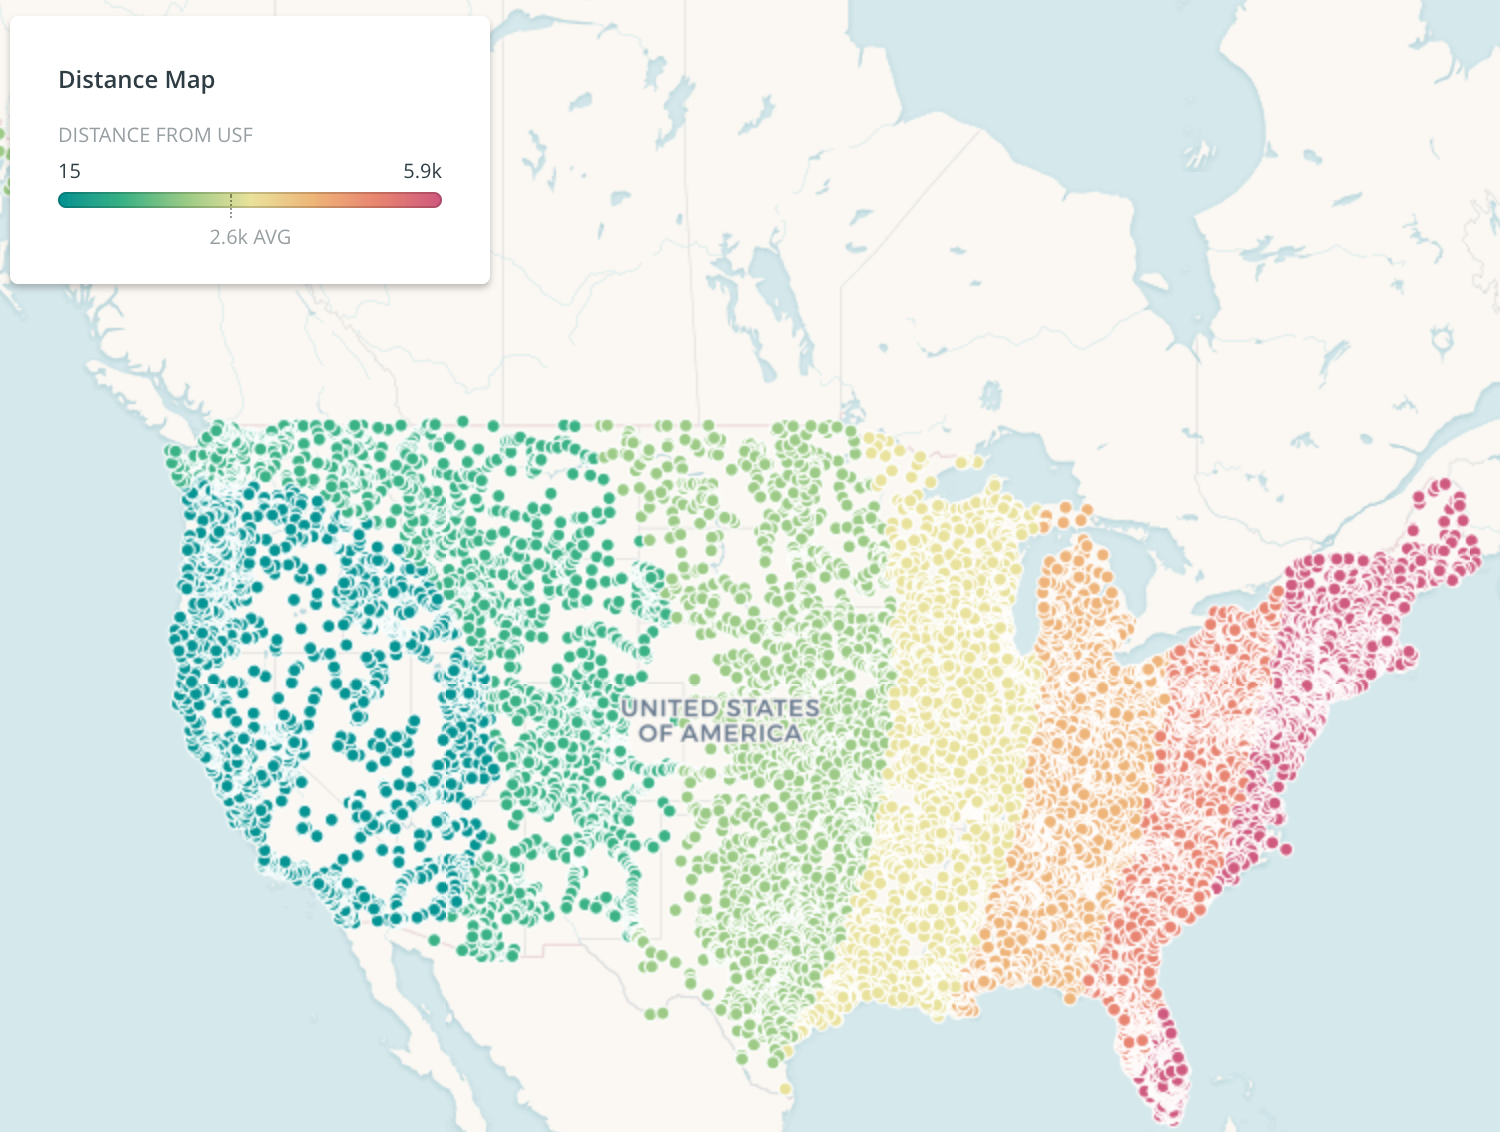
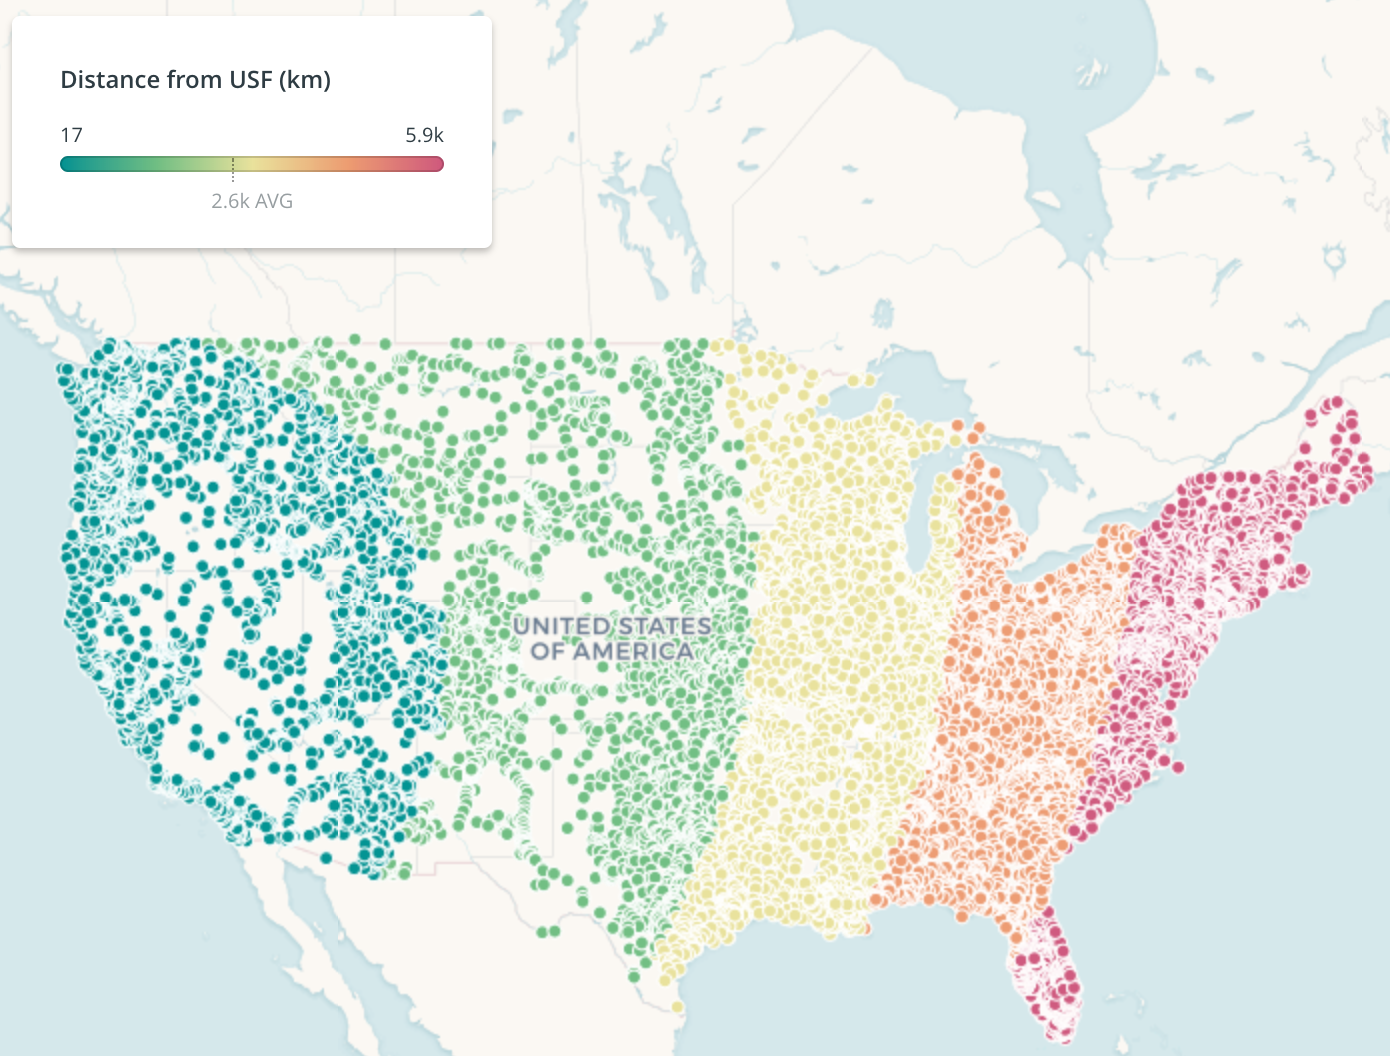
Update rainbow map

diff --git a/lecture2/Lecture2.md b/lecture2/Lecture2.md
@@ -178,7 +178,7 @@ PostGIS will return measurement in the same units as the input projection. Suppo
 
 You can measure distances (and make many other measurements in PostGIS) using meter units if you run the measurements with data on a globe. So we need to project `the_geom` and our point to PostGIS geography type. We can do this by appending `::geography` to both of them in the function call, as below. Notice that we need to divide the value returned by `ST_Distance()` by 1000 to go from meters to kilometers.
 
-Let's calculate distance to USF for each row in the table.
+Let's calculate distance to USF for each row in the table. We'll use the original data set - not the copy - so that we retain the daily updates.
 
 ```sql
 SELECT
@@ -187,12 +187,14 @@ SELECT
     the_geom::geography, 
     CDB_LatLng(37.7833,-122.4167)
   ) / 1000 AS dist
-FROM realstx_copy
+FROM realstx
 ```
 
 ## Distance map
 
 Let's make a map from this view of the table. With the last query still active, select `Create Map`. This creates a new map based on the result of that query. Because we included `*` in the `SELECT` statement, the special column `the_geom_webmercator` is being used to create the map.
+
+*As mentioned above, this map remains connected to the original data set, which is updated daily. The SQL view with `dist` is calculated on the fly as you browse the map.*
 
 Once you have your map, set the style for the points. Choose a nice color scheme using the `by value` option for the `dist` column. I think rainbow is nice :) Add a legend based on the `dist` column.
 
